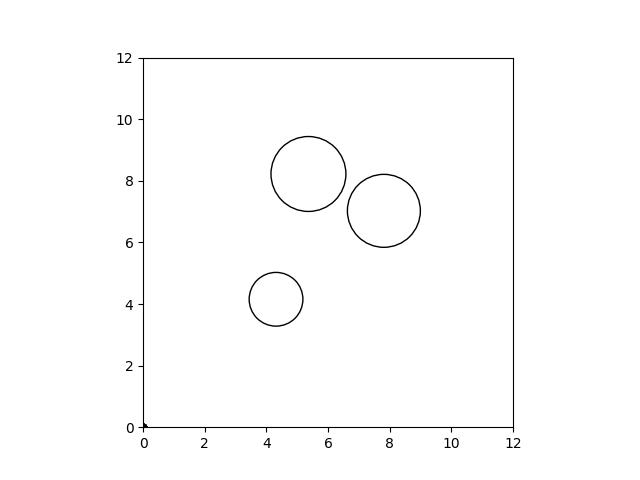
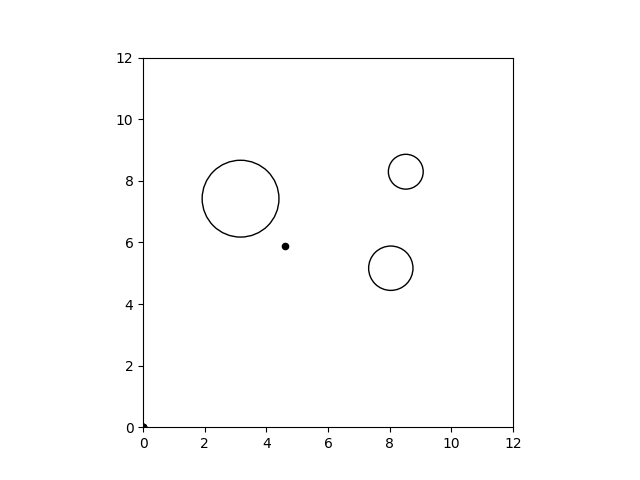
first successful run

diff --git a/iterate.py b/iterate.py
@@ -119,7 +119,7 @@ def getqx(pos):
 
 iterations = 1000
 numcircles = 3
-numdots = 12
+numdots = 6
 
 circles = np.zeros((numcircles, 3))
 dots = np.zeros((numdots, 2))
@@ -131,6 +131,7 @@ count = 0
 tracker = 1
 # place circles first
 while (count < numcircles) and (tracker < iterations): # time out if over some max # of iterations
+	print(tracker)
 	# generate circle
 	rad = np.random.uniform(0.5,1.5) # random circle radius
 	x = np.random.uniform(3,9)
@@ -142,7 +143,7 @@ while (count < numcircles) and (tracker < iterations): # time out if over some m
 
 
 	itergraph(pro_circles, pro_dots)
-	plt.savefig('image/img' + str(tracker) + '.png')
+	plt.savefig('image2/img' + str(tracker) + '.png')
 	tracker += 1
 
 	# meets configuration? if yes - then accept
@@ -156,6 +157,7 @@ x, y = np.mgrid[0:12:.01, 0:12:.01]
 pos = np.dstack((x, y))
 
 while (count < numdots) and (tracker < iterations):
+	print(tracker)
 	k = np.amax(np.divide(getpx(pos), getqx(pos)))
 	samples = np.zeros([1, 2])
 
@@ -168,7 +170,7 @@ while (count < numdots) and (tracker < iterations):
 		pro_dots[count, :] = test
 
 		itergraph(circles, pro_dots)
-		plt.savefig('image/img' + str(tracker) + '.png')
+		plt.savefig('image2/img' + str(tracker) + '.png')
 		tracker += 1
 
 		# check if follows rules
